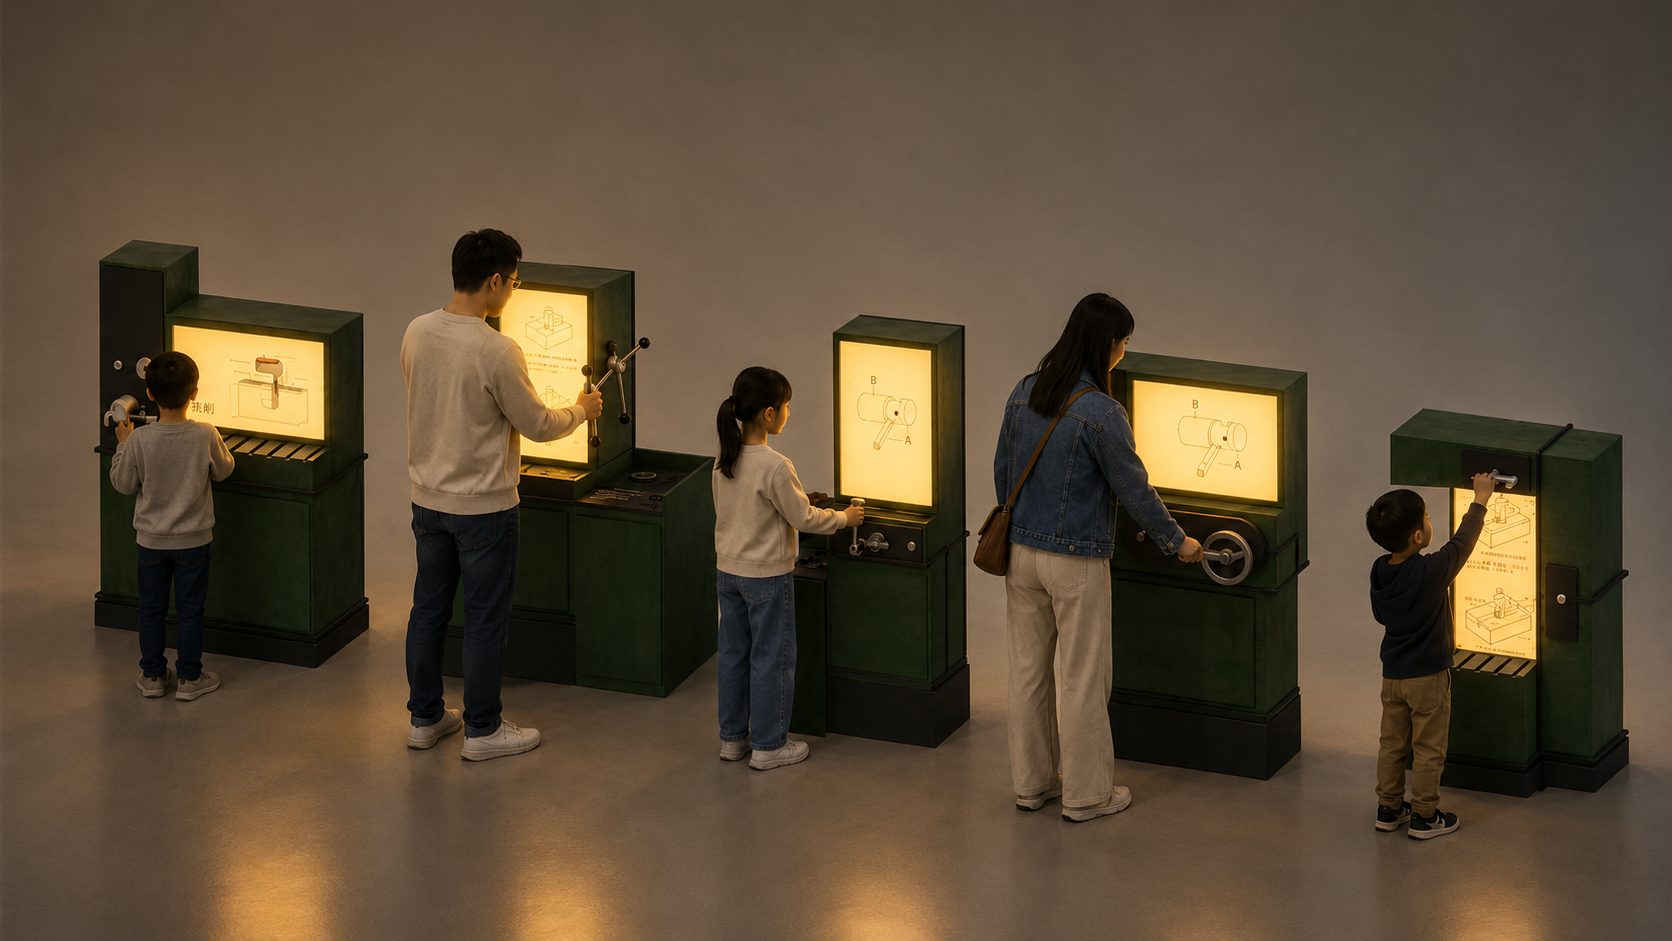
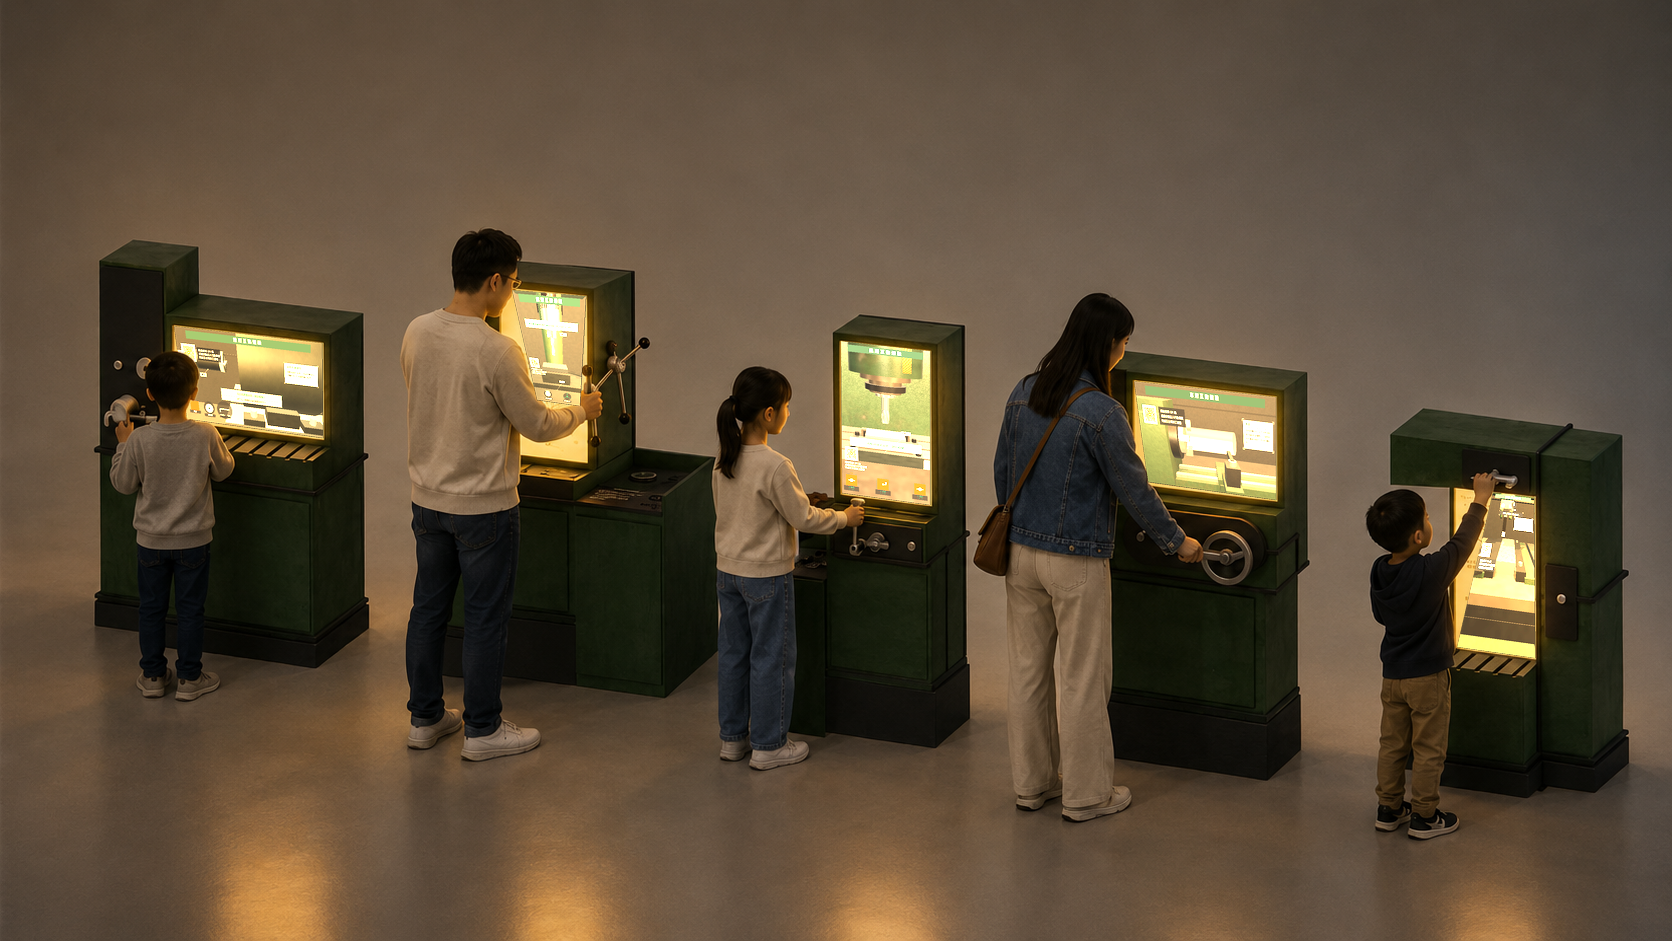
ARDemo 換 AR2 新場景（立牌＋QR＋掃碼訪客）、QuestDemo 遊玩場景換 W_04 遊戲畫面版並修左一小孩頭部（2026-10-05）
- ARDemo：scene1/2/3 換第 4b 輪（AR2 只裁切、QR 依板面透視、場景二三移除灰衣男子＋合成掃碼訪客）
- ARDemo.tsx：SCENE_QR／SPOT3／PHONE_ANCHOR 對準新 QR (435,412)，QR 示意卡移至 (760,180)
- Root.tsx：說明卡 1 移至 (620,300)，說明卡 3／4 改 X700 寬 470 避開訪客
- QuestDemo：scene_play.png 換 W_04 p26 情境圖（實際遊戲畫面）並補回左一小孩頭部

diff --git a/src/Root.tsx b/src/Root.tsx
@@ -54,7 +54,7 @@ export const RemotionRoot: React.FC = () => {
         width={1920}
         height={1080}
         schema={arDemoSchema}
-        defaultProps={{"時間軸":{"亮景全景":{"開始":0,"結束":80},"暗景聚光":{"開始":80,"結束":450},"標題段":{"開始":0,"結束":72},"開場QR示意":{"開始":0,"結束":61},"手機面板":{"開始":80,"結束":426},"掃描畫面":{"開始":68,"結束":139},"手指點按":{"開始":195,"結束":304},"黑幕淡出":{"開始":426,"結束":450}},"文案":{"標題":"AR 探索","副標":"掃描展板 QR，在原址疊合機具歷史影像","掃描完成標語":"✓ 已辨識・開啟 AR 探索","說明卡":[{"文字":"掃描展板 QR，開啟 AR 模式。","起":80,"訖":150,"X":320,"Y":660,"寬":560},{"文字":"系統辨識展項位置與台工 1677 機具資料。","起":150,"訖":204,"X":630,"Y":220,"寬":500},{"文字":"點選畫面按鈕，在機坑原址疊合機具影像。","起":196,"訖":330,"X":630,"Y":780,"寬":500},{"文字":"畫面可對照機坑現況與模擬的機具原貌。","起":330,"訖":420,"X":620,"Y":480,"寬":500}]}}}
+        defaultProps={{"時間軸":{"亮景全景":{"開始":0,"結束":80},"暗景聚光":{"開始":80,"結束":450},"標題段":{"開始":0,"結束":72},"開場QR示意":{"開始":0,"結束":61},"手機面板":{"開始":80,"結束":426},"掃描畫面":{"開始":68,"結束":139},"手指點按":{"開始":195,"結束":304},"黑幕淡出":{"開始":426,"結束":450}},"文案":{"標題":"AR 探索","副標":"掃描展板 QR，在原址疊合機具歷史影像","掃描完成標語":"✓ 已辨識・開啟 AR 探索","說明卡":[{"文字":"掃描展板 QR，開啟 AR 模式。","起":80,"訖":150,"X":620,"Y":300,"寬":560},{"文字":"系統辨識展項位置與台工 1677 機具資料。","起":150,"訖":204,"X":630,"Y":220,"寬":500},{"文字":"點選畫面按鈕，在機坑原址疊合機具影像。","起":196,"訖":330,"X":700,"Y":780,"寬":470},{"文字":"畫面可對照機坑現況與模擬的機具原貌。","起":330,"訖":420,"X":700,"Y":480,"寬":470}]}}}
         calculateMetadata={({ props }) => ({ durationInFrames: props.時間軸.黑幕淡出.結束 })}
       />
       <Composition

diff --git a/src/asembly/ARDemo.tsx b/src/asembly/ARDemo.tsx
@@ -49,10 +49,10 @@ const dur = (t: Track) => t.結束 - t.開始;
 
 const A = (p: string) => `asembly/ardemo/${p}`;
 // v7 實圖量測：橘色 AR QR；面板旁另有綠色語音 QR，勿圈錯。
-const SCENE_QR = { x: 608, y: 532, size: 14 };
+const SCENE_QR = { x: 435, y: 412, size: 14 }; // AR2 新場景（PO 2026-10-05 第 4b 輪），圖檔已為 1920×1080
 const SCAN_QR = { x: 176, y: 529, size: 107 };
-const SPOT3 = { x: "12.3%", y: "50.9%" };
-const PHONE_ANCHOR = { x: 236, y: 550 };
+const SPOT3 = { x: "22.66%", y: "38.15%" };
+const PHONE_ANCHOR = { x: 435, y: 412 }; // ＝SPOT3 換算 px（聚光推近的定點）
 const clamp = { extrapolateLeft: "clamp" as const, extrapolateRight: "clamp" as const };
 
 export const ARDemo: React.FC<ARDemoProps> = ({ 時間軸: T, 文案 }) => {
@@ -87,7 +87,7 @@ export const ARDemo: React.FC<ARDemoProps> = ({ 時間軸: T, 文案 }) => {
         <TitleCard index={2} title={文案.標題} subtitle={文案.副標} enterFrame={0} />
       </Sequence>
       <Sequence name="開場QR示意" from={T.開場QR示意.開始} durationInFrames={dur(T.開場QR示意)}>
-        <SceneQrCallout src={A("qr_ar_G13_labeled.png")} enterFrame={15} target={SCENE_QR} backgroundScale={s1Scale} />
+        <SceneQrCallout src={A("qr_ar_G13_labeled.png")} enterFrame={15} target={SCENE_QR} backgroundScale={s1Scale} card={{ x: 760, y: 180, width: 300 }} />
       </Sequence>
 
       {/* 手機面板：掃描→AR 分頁→手指點按→台工1677 重現 */}
